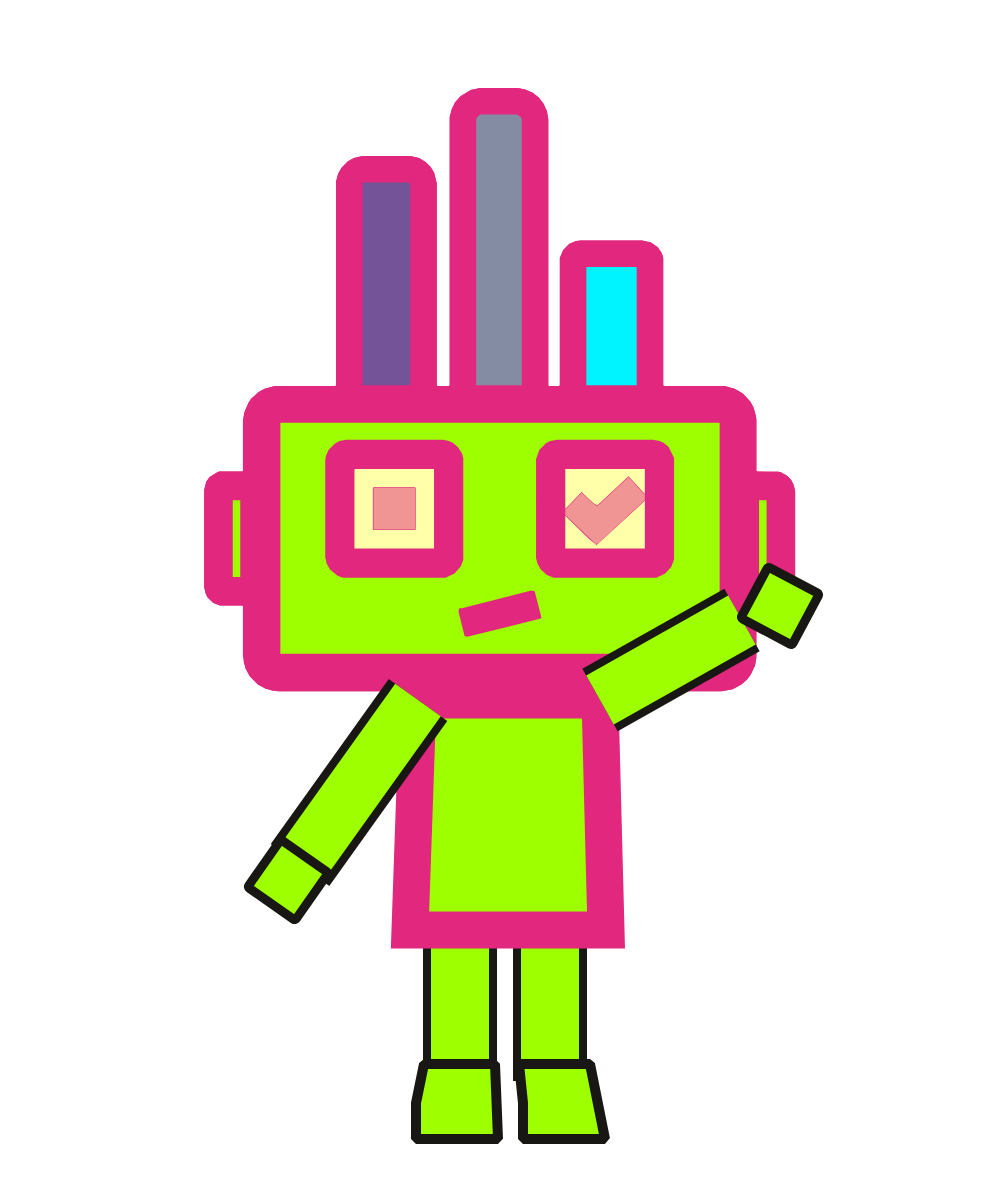
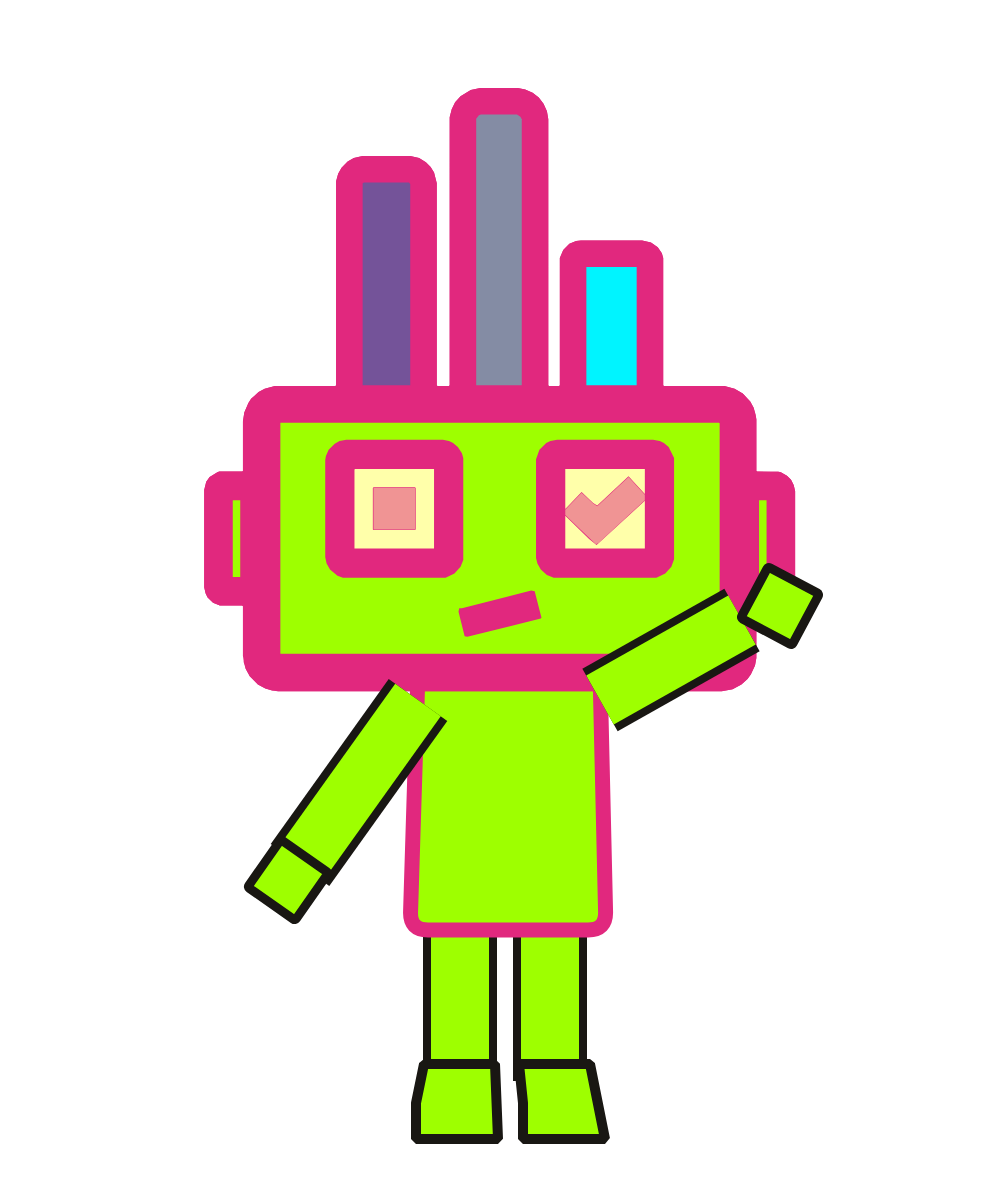
fix(skills): Zine torso thin and rounded, tucked under the head (no double neck)
The torso's top now sits behind the head, so only the head's pink
shows where they meet, as on the 3D rig. Its outline is a thin 15px
pink with rounded corners instead of the logo-width border, which
looked too heavy on the body. Shoulder points unchanged. All three
poses rebuilt; system.md makes a double neck a hard fail.

Claude-Session: https://claude.ai/code/session_01DJAnFBy1jPPuBjcuy8gwUn

Changed region(s): [[0.372, 0.555, 0.651, 0.8017]]

diff --git a/.claude/skills/mascot-illustration/styles/zine/locked-poses/pose-kit-v1.1/build_subo_poses.py b/.claude/skills/mascot-illustration/styles/zine/locked-poses/pose-kit-v1.1/build_subo_poses.py
@@ -138,14 +138,37 @@ def jumping_boots():
             f'<path id="boot-right" d="M640,994 L690,1018 L718,1058 L661,1093 L619,1052 Z" fill="{LIME}" stroke="{INK}" stroke-width="10" stroke-linejoin="bevel"/>')
 
 
+def rounded_polygon(points, r):
+    """Closed path through `points` with every corner rounded by radius `r`."""
+    n = len(points)
+    def towards(p, q, d):
+        L = math.hypot(q[0] - p[0], q[1] - p[1])
+        return (p[0] + (q[0] - p[0]) * d / L, p[1] + (q[1] - p[1]) * d / L)
+    parts = []
+    for i in range(n):
+        prev, cur, nxt = points[i - 1], points[i], points[(i + 1) % n]
+        a, c = towards(cur, prev, r), towards(cur, nxt, r)
+        parts.append(('M ' if i == 0 else 'L ') + coord(a) + ' Q ' + coord(cur) + ' ' + coord(c))
+    return ' '.join(parts) + ' Z'
+
+
+# The head's bottom edge sits at y=691 (translate 50 + 943 x 0.68). The torso's top is
+# tucked behind it at y=672, so only the head's pink shows where they meet: an invisible
+# neck, as on the 3D rig (operator, 2026-11-12). Its top used to sit at y=700, below the
+# head, and its pink band showed under the head's as a "double neck".
+TORSO_TOP = 672
+
+
 def torso():
-    # Explicitly anchored at x=418 and x=600, y=700 for every pose.
-    d='M418,700 L600,700 L606,930 L410,930 Z'
+    # Shoulder anchors stay at (418,700) and (600,700): they now sit on the torso's sides,
+    # just under the head, which is where the arms already started.
+    d = rounded_polygon([(418, TORSO_TOP), (600, TORSO_TOP), (606, 930), (410, 930)], 18)
     return (f'<g id="torso" data-shoulder-left="{coord(LEFT_SHOULDER)}" '
             f'data-shoulder-right="{coord(RIGHT_SHOULDER)}">'
-            # Pink outline only, as on the 2D logo: no black ink around the torso (operator,
-            # 2026-11-12). 37px = the logo's 55px pink border at the head's 0.68 scale.
-            f'<path d="{d}" fill="{LIME}" stroke="{PINK}" stroke-width="37" stroke-linejoin="miter"/>'
+            # Pink outline only, no black (operator, 2026-11-12), and thin like the 3D
+            # reference's torso (about 40% of the head's 37px border), not the logo-width
+            # border, which looked too heavy on the body.
+            f'<path d="{d}" fill="{LIME}" stroke="{PINK}" stroke-width="15" stroke-linejoin="round"/>'
             '</g>')
 
 

diff --git a/.claude/skills/mascot-illustration/styles/zine/system.md b/.claude/skills/mascot-illustration/styles/zine/system.md
@@ -69,9 +69,13 @@ pose as it is.
   body architecture may not.
 - **Contour:** bold neon-pink/magenta boundary on the mascot, like a highlighter drawn over a
   black-ink photocopy. Keep its placement and thickness recognizable.
-  - **Head and torso: pink outline only, at the 2D logo's width,** with no black line around
-    it (operator, 2026-11-12). In the pose kit that is the logo's 55px border at the head's
-    0.68 scale: 37px.
+  - **Head and torso: pink outline only,** with no black line around it (operator,
+    2026-11-12). The head keeps the 2D logo's border (55px on the logo, 37px in the pose kit).
+    The torso's is thin, like the 3D reference's (15px in the kit, about 40% of the head's),
+    with softly rounded corners.
+  - **Hidden neck.** The torso's top is tucked behind the head, so only the head's pink shows
+    where they meet, as on the 3D rig. Two pink edges stacked under the head (a "double
+    neck") is a fault.
   - **Arms, hands, legs and boots: a thin black outline** and no pink, as in the 3D reference.
 - **No invented additions:** no chest badge, initials, clothes, unnecessary face changes, or
   extra antennae unless explicitly approved for a specific scene.
@@ -284,7 +288,7 @@ The copy/paste prompt for a fresh conversation lives in
 ## 9. Acceptance and versioning
 
 **Hard-fail conditions, reject the illustration:** incorrect eyes or mouth; altered head,
-ears or bars; a black outline around the head or torso; purple outside the left head bar; any colored prop or decoration; a new chest
+ears or bars; a black outline around the head or torso; a visible double neck; purple outside the left head bar; any colored prop or decoration; a new chest
 logo; text not explicitly authorized.
 
 **Quality check (pass before publishing):**
@@ -329,6 +333,10 @@ kit v1.1. Next: the first scene plates (the November posts), then props worth re
   their pink; the torso's pink is widened to the logo's width (37px in the kit). Black stays
   on the limbs only. Reason: the 2D logo has no black outline (operator). Affects all three
   poses and the head master.
+- 2026-11-12 · v1.1 · Torso: thin pink outline (15px) with rounded corners, top tucked
+  behind the head (hidden neck). Reason: the logo-width border looked too heavy on the body,
+  and the torso's top pink showed under the head's as a double neck (operator, from the 3D
+  rig). All three poses.
 
 - 2026-11-12 · v1.0 · The two character references added to `references/` (operator).
 - 2026-11-12 · v1.0 · Converted from the ChatGPT .docx to Markdown, made the source of truth

diff --git a/.claude/skills/mascot-illustration/styles/zine/locked-poses/pose-kit-v1.1/README.md b/.claude/skills/mascot-illustration/styles/zine/locked-poses/pose-kit-v1.1/README.md
@@ -33,7 +33,9 @@ This kit contains the approved locked character poses for the first production-r
   the torso and beside the boot. P02 and P04 are unchanged.
 - **Head and torso: pink outline only** (operator, 2026-11-12). The head master had a 15px
   black stroke around its pink, and the torso a 21px black stroke under a 13px pink one. Both
-  black strokes are gone and the torso's pink is 37px, the logo's border at the head's scale.
+  black strokes are gone. The torso then got a thin 15px pink outline with rounded corners,
+  and its top moved up behind the head (y 672, the head's bottom edge is at 691) so only the
+  head's pink shows where they meet: no double neck.
   Limbs, hands and boots keep their thin black outline. Applies to all three poses.
 - **Shared files are not duplicated:** `system.md`, `references/` and `examples/` live two
   levels up in `styles/zine/`, and the build script reads the logo from there.
